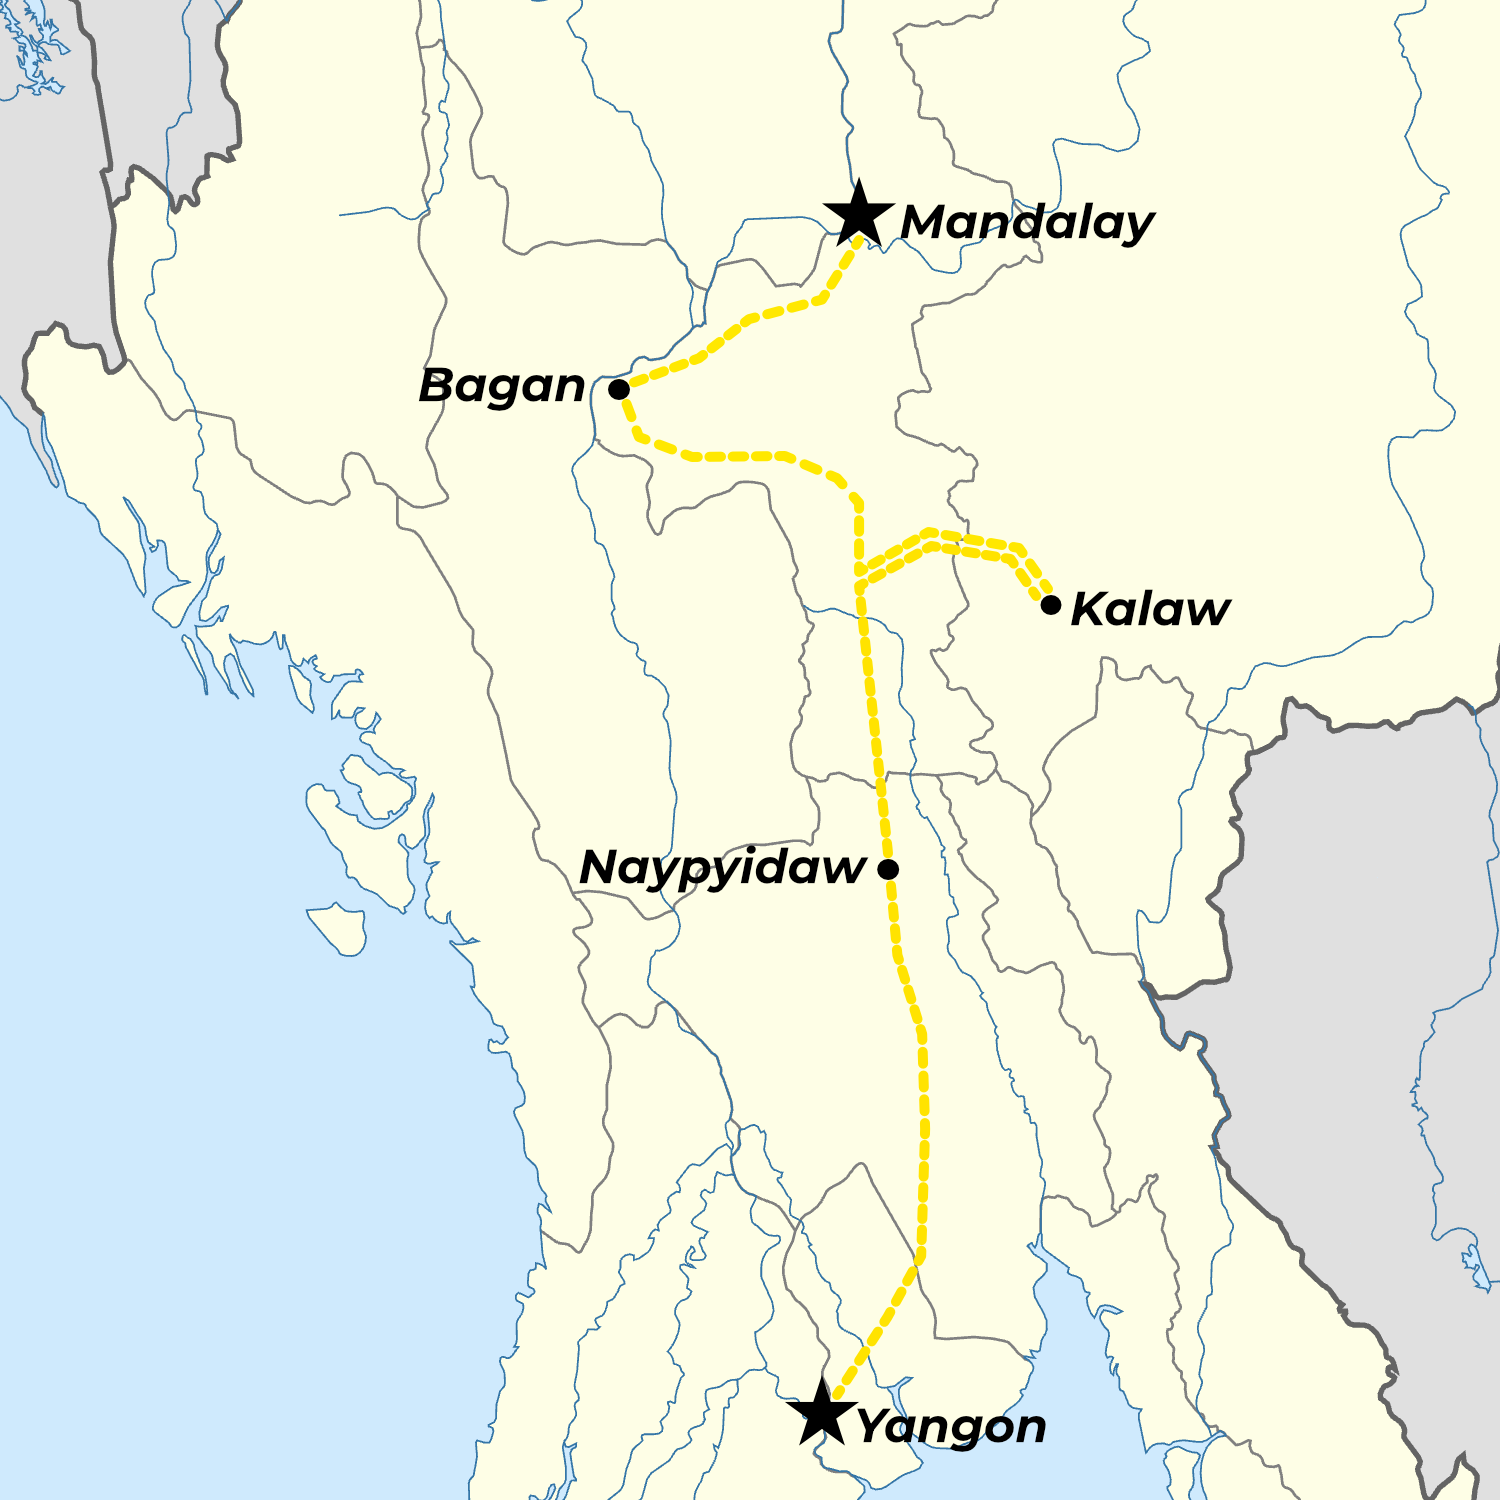
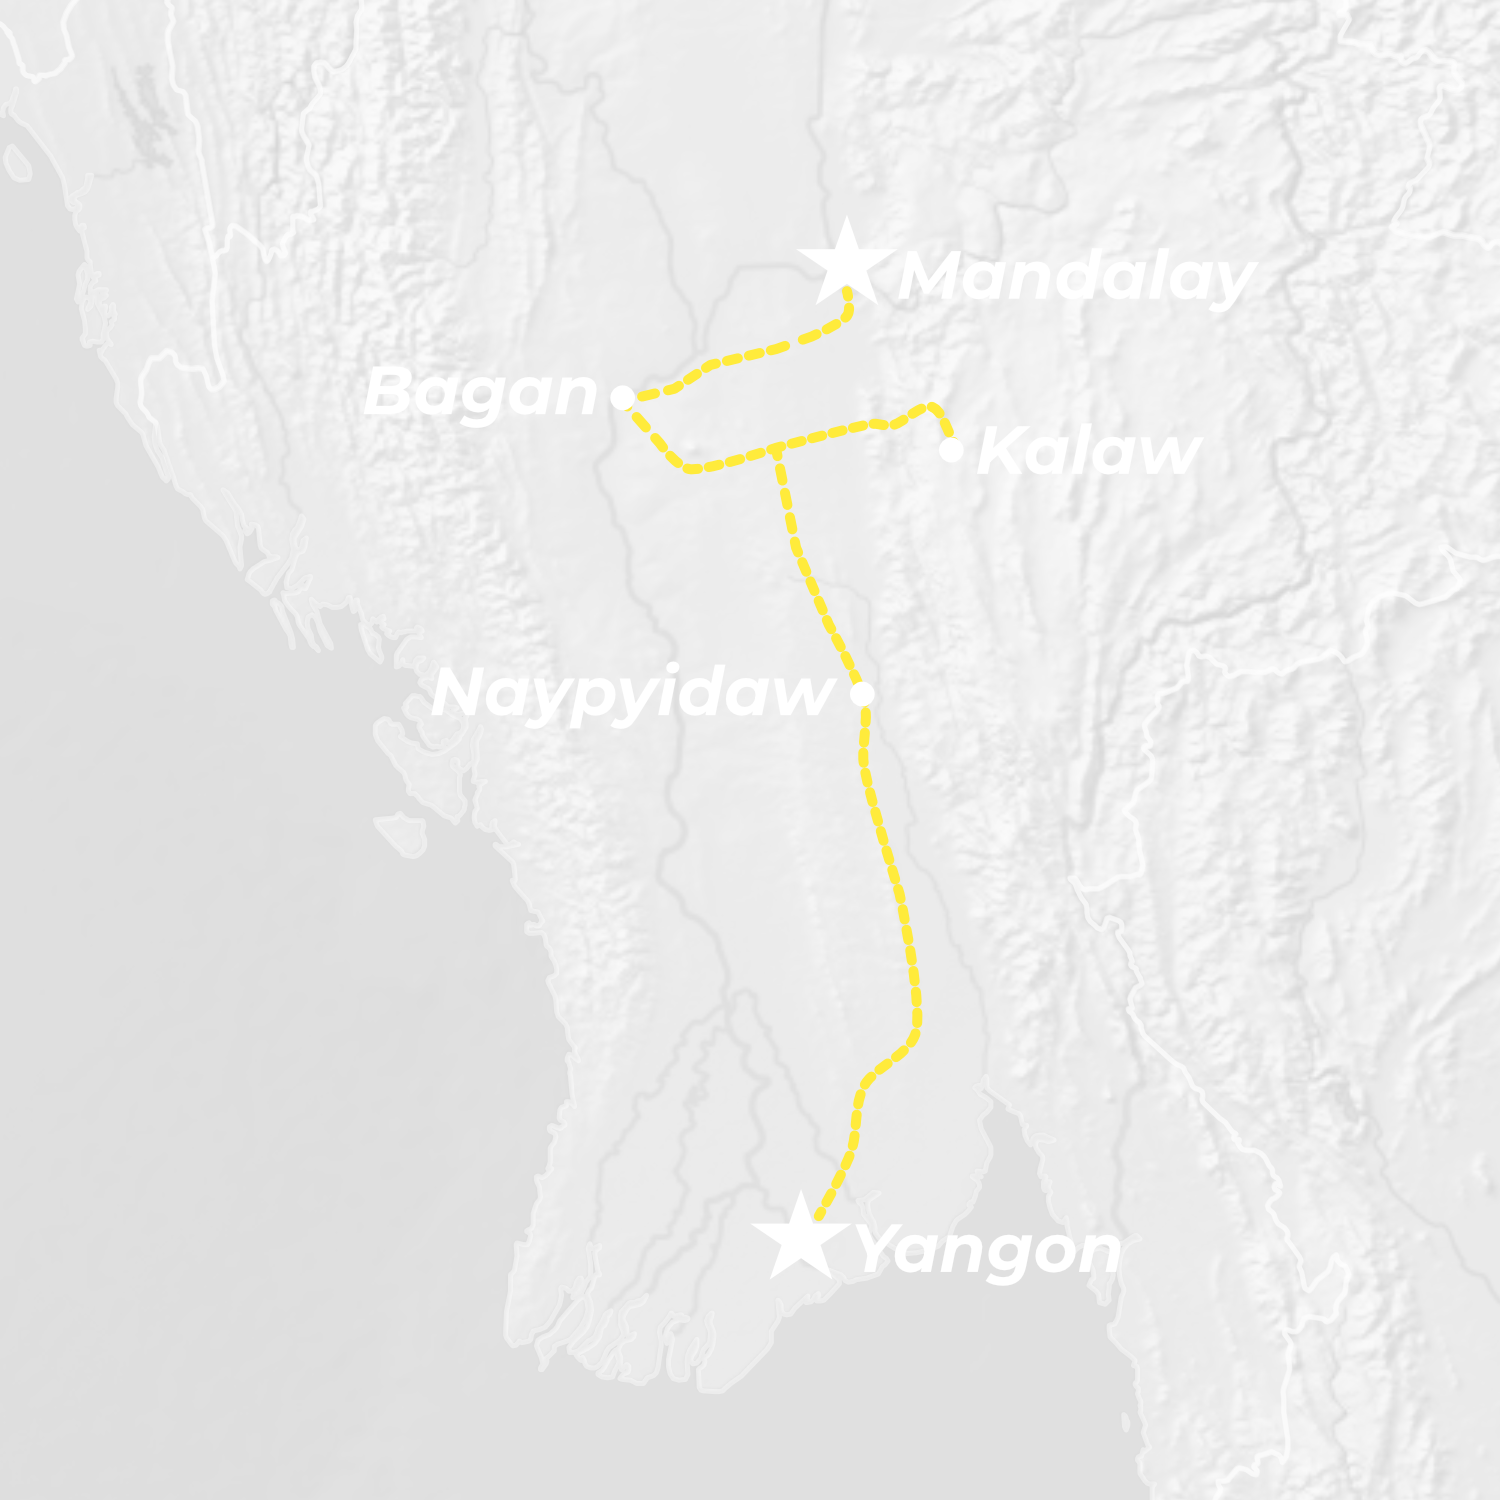
:recycle: Rework itinerary map to dark mode

diff --git a/pages/travel/[link].tsx b/pages/travel/[link].tsx
@@ -438,92 +438,94 @@ const VideoContent = ({
 												{itinerary.title}
 											</h3>
 											<h4
-												className={`${styles.itineraryTitles} ${styles.itinerarySubTitles}`}>
+												className={styles.itineraryTitles}
+												style={{ paddingTop: "19px" }}>
 												{itinerary.length}
 											</h4>
-											<p
-												className={`${styles.itineraryTitles}  ${styles.itinerarySubTitles}`}>
+											<p className={styles.itineraryTitles}>
 												{itinerary.description}
 											</p>
-											{itinerary.steps.map((step, stepIndex) => (
-												<div key={`step item ${stepIndex}`}>
-													<Accordion>
-														<AccordionSummary
-															expandIcon={<ArrowDropDownIcon />}
-															aria-controls='panel1-content'
-															id='panel1-header'
-															style={{ margin: "10px", paddingTop: "10px" }}>
-															<h4 className={styles.accordionTitle}>
-																{step.stepTitle}
-															</h4>
-															<h4 className={styles.accordionDays}>
-																{step.days}
-															</h4>
-														</AccordionSummary>
-														<AccordionDetails>
-															{step.details.map((detail, detailIndex) => (
-																<div key={`detail item ${detailIndex}`}>
-																	<p
-																		className={styles.accordionParagraph}
-																		style={{
-																			backgroundColor: detail.isWarning
-																				? "rgba(255, 0, 0, 0.1)"
-																				: detail.isRecommendation
-																				? "rgba(255, 247, 0, 0.1)"
-																				: detail.isInfo
-																				? "rgba(0, 221, 255, 0.1)"
-																				: "transparent",
-																			marginBottom: detail.link
-																				? "-5px"
-																				: undefined,
-																		}}>
-																		{detail.isInfo && (
-																			<InfoIcon
-																				style={{
-																					marginRight: "6px",
-																				}}
-																			/>
+											<div className={styles.accordionContainer}>
+												{itinerary.steps.map((step, stepIndex) => (
+													<div key={`step item ${stepIndex}`}>
+														<Accordion>
+															<AccordionSummary
+																expandIcon={<ArrowDropDownIcon />}
+																aria-controls='panel1-content'
+																id='panel1-header'
+																style={{ margin: "10px", paddingTop: "10px" }}>
+																<h4 className={styles.accordionTitle}>
+																	{step.stepTitle}
+																</h4>
+																<h4 className={styles.accordionDays}>
+																	{step.days}
+																</h4>
+															</AccordionSummary>
+															<AccordionDetails>
+																{step.details.map((detail, detailIndex) => (
+																	<div key={`detail item ${detailIndex}`}>
+																		<p
+																			className={styles.accordionParagraph}
+																			style={{
+																				backgroundColor: detail.isWarning
+																					? "rgba(255, 0, 0, 0.1)"
+																					: detail.isRecommendation
+																					? "rgba(255, 247, 0, 0.1)"
+																					: detail.isInfo
+																					? "rgba(0, 221, 255, 0.1)"
+																					: "transparent",
+																				marginBottom: detail.link
+																					? "-5px"
+																					: undefined,
+																			}}>
+																			{detail.isInfo && (
+																				<InfoIcon
+																					style={{
+																						marginRight: "6px",
+																					}}
+																				/>
+																			)}
+
+																			{detail.isWarning && (
+																				<WarningIcon
+																					style={{ marginRight: "6px" }}
+																				/>
+																			)}
+
+																			{detail.isRecommendation && (
+																				<PsychologyAltIcon
+																					style={{ marginRight: "6px" }}
+																				/>
+																			)}
+
+																			{detail.sentence}
+																		</p>
+
+																		{detail.link && (
+																			<a
+																				className={styles.accordionLink}
+																				href={detail.link}
+																				target='_blank'>
+																				{detail.link}
+																			</a>
 																		)}
 
-																		{detail.isWarning && (
-																			<WarningIcon
-																				style={{ marginRight: "6px" }}
+																		{detail.image && (
+																			<Image
+																				src={`/travel/itineraries/${detail.image}.png`}
+																				alt={`Picture of ${detail.image}`}
+																				width='1000'
+																				height='1000'
+																				layout='responsive'
 																			/>
 																		)}
-
-																		{detail.isRecommendation && (
-																			<PsychologyAltIcon
-																				style={{ marginRight: "6px" }}
-																			/>
-																		)}
-
-																		{detail.sentence}
-																	</p>
-
-																	{detail.link && (
-																		<a
-																			className={styles.accordionLink}
-																			href={detail.link}
-																			target='_blank'>
-																			{detail.link}
-																		</a>
-																	)}
-
-																	{detail.image && (
-																		<Image
-																			src={`/travel/itineraries/${detail.image}.png`}
-																			alt={`Picture of ${detail.image}`}
-																			width='1000'
-																			height='1000'
-																			layout='responsive'
-																		/>
-																	)}
-																</div>
-															))}
-														</AccordionDetails>
-													</Accordion>
-												</div>
-											))}
+																	</div>
+																))}
+															</AccordionDetails>
+														</Accordion>
+													</div>
+												))}
+											</div>
 										</div>
 									</div>
 								))}

diff --git a/src/datasources/TravelMetaData.ts b/src/datasources/TravelMetaData.ts
@@ -750,6 +750,7 @@ export const travelVideoMetaData: TravelVideoMetaData[] = [
 			"https://www.instagram.com/p/Cp23tBbPq61/?img_index=1",
 			"https://www.instagram.com/p/CqD9tCMBNH4/?img_index=1",
 			"https://www.instagram.com/p/CqJB8WLhyXZ/?img_index=1",
+			"https://www.instagram.com/p/DJhWKcdh_ex/?hl=en&img_index=1",
 		],
 		extras: {
 			countries: ["Cambodia", "Laos", "Vietnam"],
@@ -2493,6 +2494,12 @@ export const travelVideoMetaData: TravelVideoMetaData[] = [
 		year: 2025,
 		hostedLink: "pakistan",
 		link: "pakistan",
+		instagramLinks: [
+			"https://www.instagram.com/p/DGM3M_mpdbC/?hl=en&img_index=1",
+			"https://www.instagram.com/p/DGV1iWvopgL/?hl=en&img_index=1",
+			"https://www.instagram.com/p/DGzkwBRJ0Fh/?hl=en&img_index=1",
+			"https://www.instagram.com/p/DG44LWuJOgv/?hl=en&img_index=1",
+		],
 		restricted: false,
 		backupLink:
 			"https://drive.google.com/drive/folders/14vEAX2n-dlTqZ59ywDNLbIte6FeClEV4?usp=sharing",
@@ -2597,6 +2604,12 @@ export const travelVideoMetaData: TravelVideoMetaData[] = [
 		hostedLink: "afghanistan",
 		link: "afghanistan",
 		restricted: false,
+		instagramLinks: [
+			"https://www.instagram.com/p/DHBuxixB_pJ/?hl=en&img_index=1",
+			"https://www.instagram.com/p/DHQBf6uprQO/?hl=en&img_index=1",
+			"https://www.instagram.com/p/DHVYFMXpOR1/?hl=en&img_index=1",
+			"https://www.instagram.com/p/DHf5eCJJYSs/?hl=en&img_index=1",
+		],
 		backupLink:
 			"https://drive.google.com/drive/folders/13u7UC_NTr1cXDKtclfhxyl-nokepTDjW?usp=sharing",
 		extras: {
@@ -2685,6 +2698,11 @@ export const travelVideoMetaData: TravelVideoMetaData[] = [
 		hostedLink: "myanmar",
 		link: "myanmar",
 		restricted: false,
+		instagramLinks: [
+			"https://www.instagram.com/p/DIn7QDapHiw/?hl=en&img_index=1",
+			"https://www.instagram.com/p/DIx6-MlpXIM/?hl=en&img_index=1",
+			"https://www.instagram.com/p/DI2seBsJ4fU/?hl=en&img_index=1",
+		],
 		backupLink:
 			"https://drive.google.com/drive/folders/1jS1RladwBgOPzbq58GO8oHMkTeNdjtUY?usp=sharing",
 		extras: {

diff --git a/src/travel/index.module.scss b/src/travel/index.module.scss
@@ -424,6 +424,10 @@
 	}
 }
 
+.accordionContainer {
+	margin-top: 30px;
+}
+
 .accordionTitle {
 	margin: 0;
 	width: 40%;
